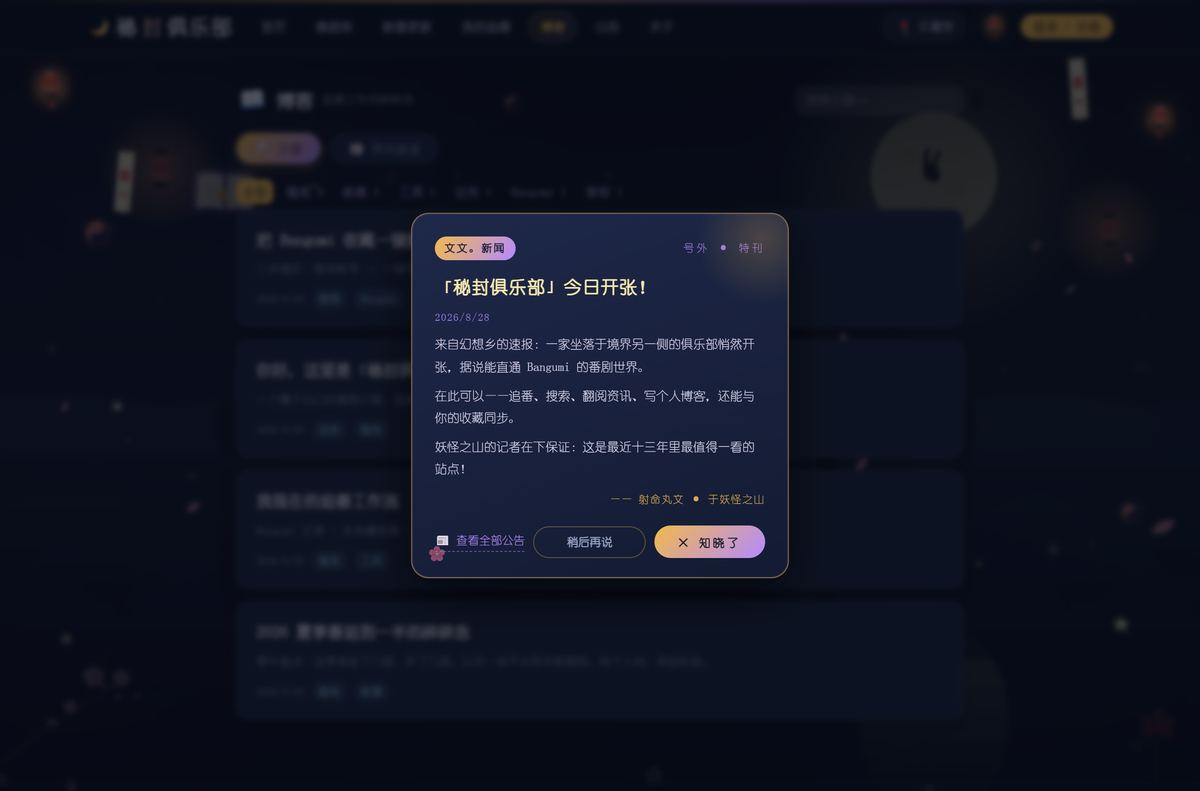
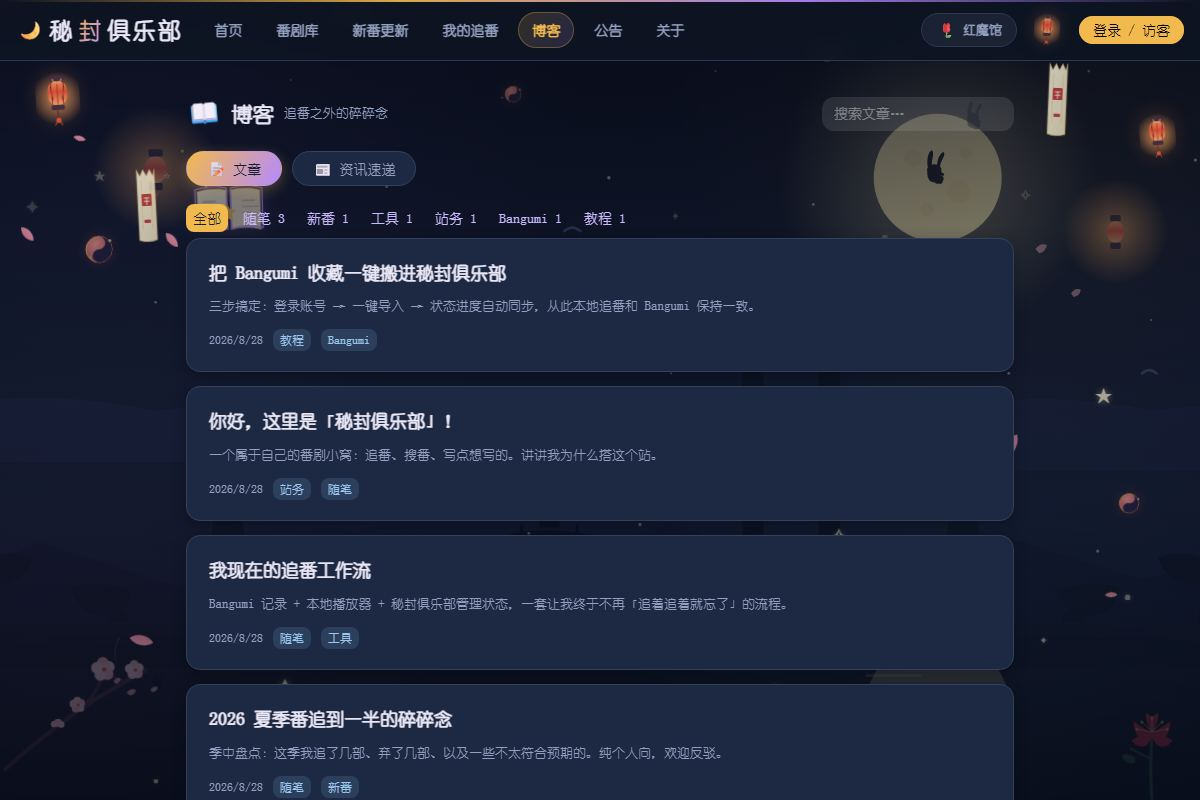
docs: 重传无公告遮挡截图 + 补充 MIT License

diff --git a/README.md b/README.md
@@ -130,4 +130,4 @@ pnpm dev
 
 ## 📄 License
 
-当前未指定开源许可证。如需正式开源，请补充 `LICENSE` 文件后再对外分发。
+[MIT](LICENSE) © 2026 lksjfklj
